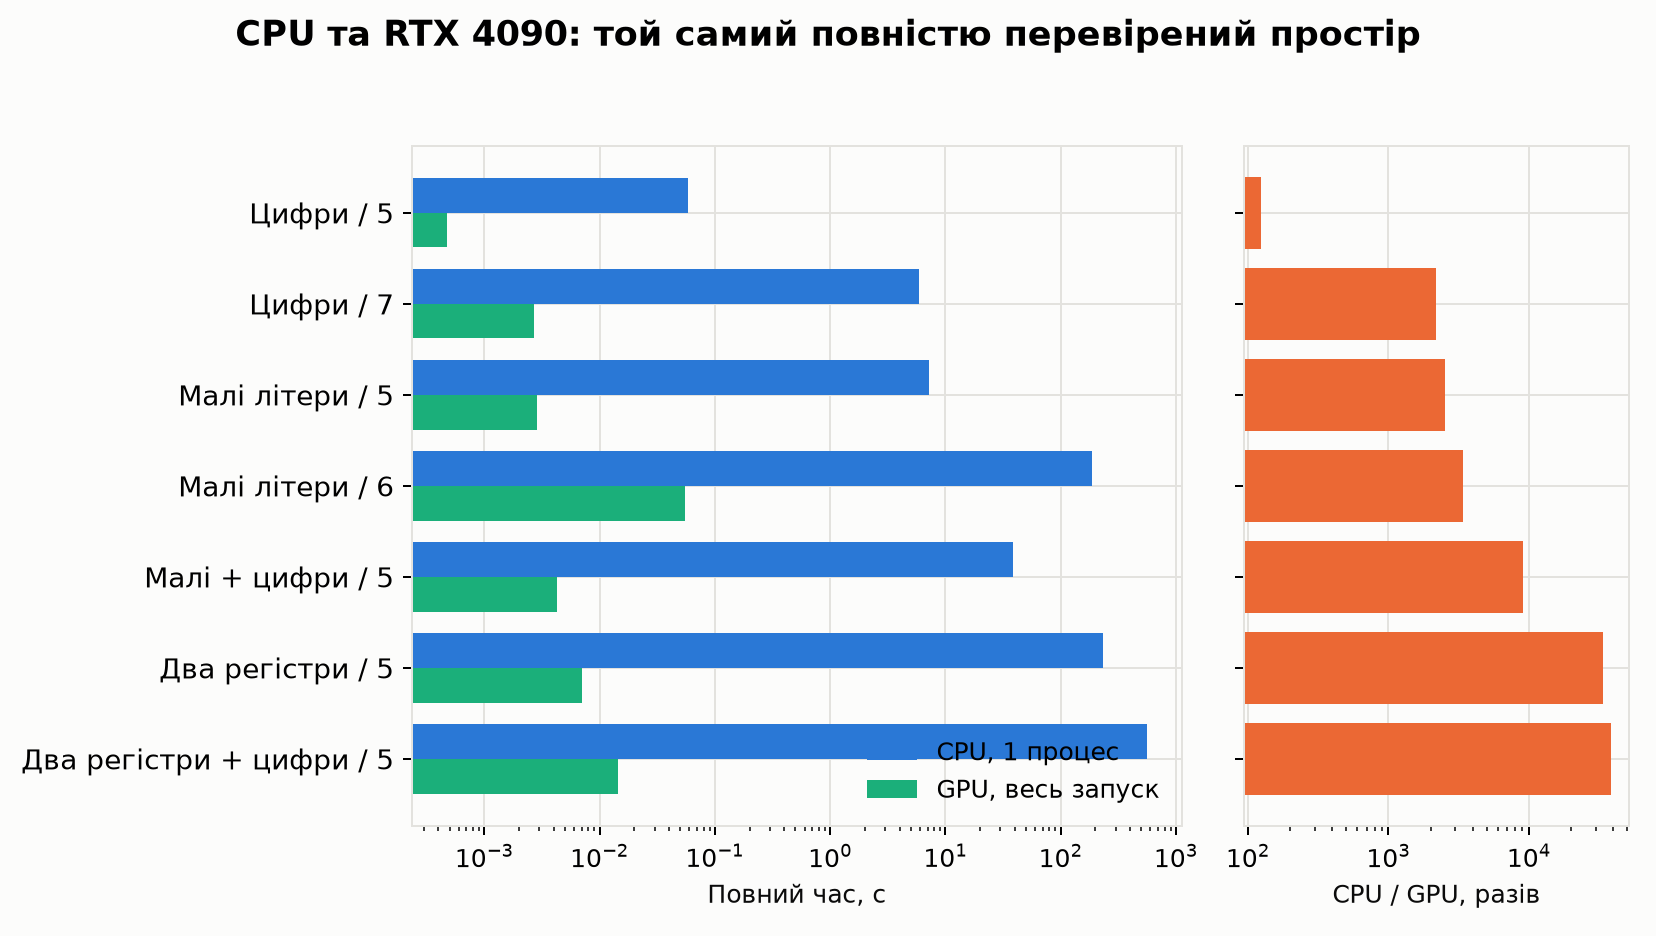
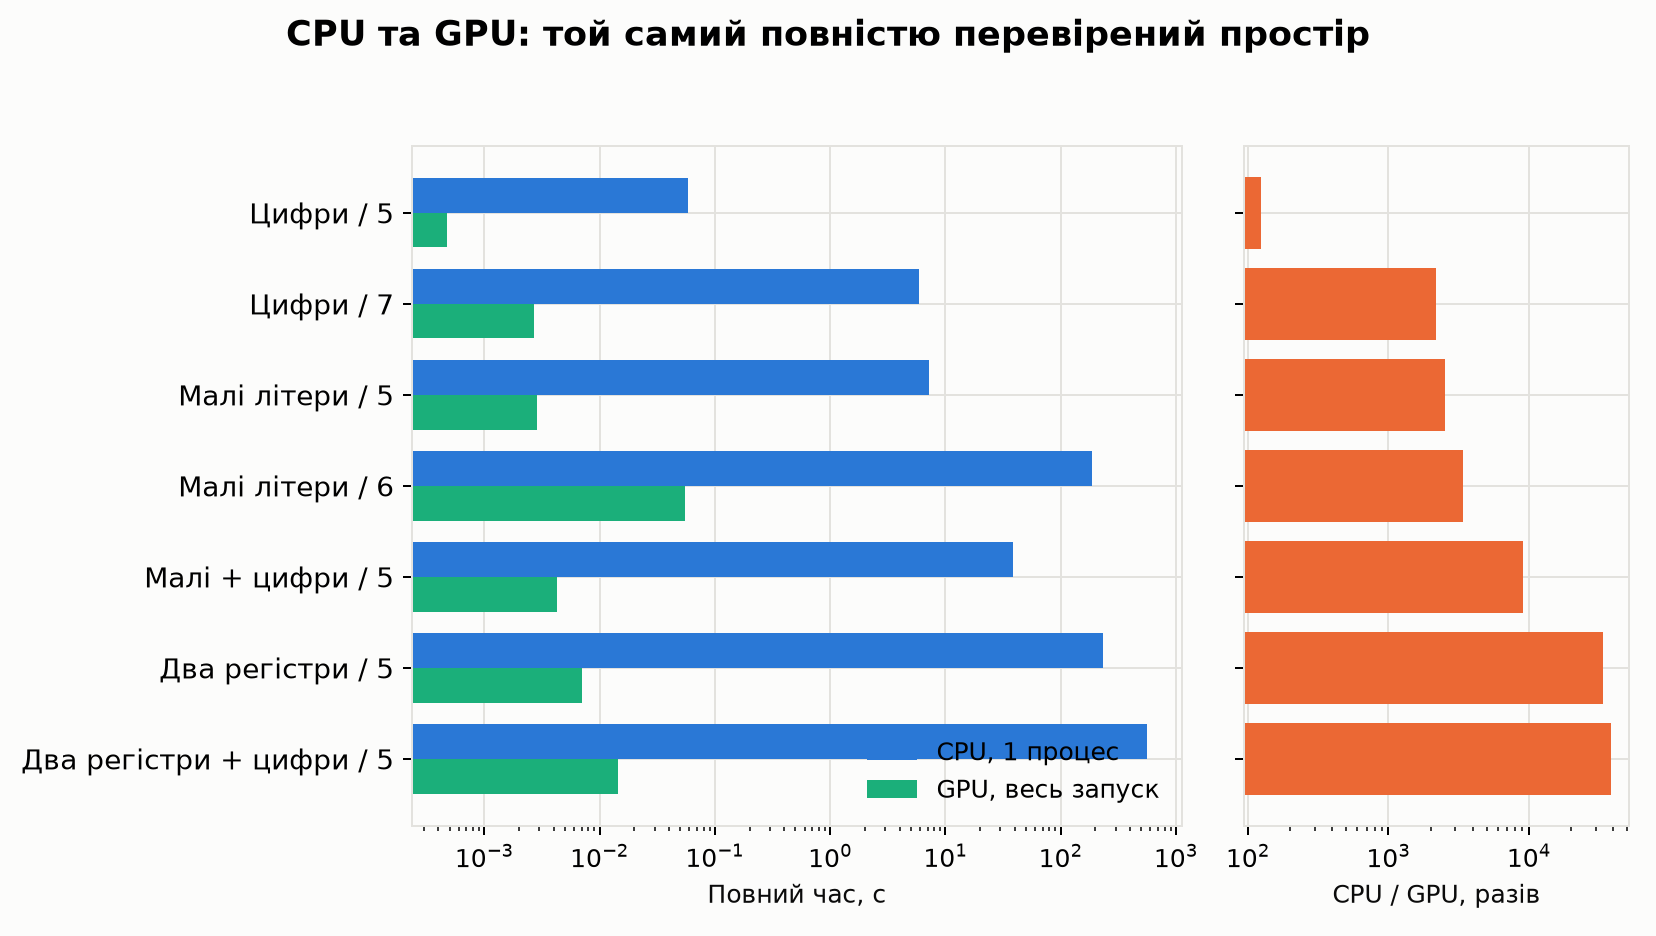
Узагальнити назви обладнання в матеріалах ЛР5

Changed region(s): [[0.1232, 0.0, 0.8623, 0.062]]

diff --git a/experiments/render_hardware.py b/experiments/render_hardware.py
@@ -61,7 +61,7 @@ def main():
     axes[1].barh(x, speed, color=ORANGE); axes[1].set_xlabel("CPU / GPU, разів")
     axes[1].set_xscale("log")
     axes[0].invert_yaxis()
-    figure(fig, "fig10_cpu_gpu.png", "CPU та RTX 4090: той самий повністю перевірений простір")
+    figure(fig, "fig10_cpu_gpu.png", "CPU та GPU: той самий повністю перевірений простір")
 
     fig, axes = plt.subplots(1, 2, figsize=(9.4, 4.5))
     ordered = sorted(graphics, key=lambda r: r["space"])
@@ -90,7 +90,7 @@ def main():
         "Додатковий експеримент виконував справжнє MD5-хешування синтетичних цифрових і літерних паролів. "
         "Ціль кожного прогону — останній кандидат заданого порядку: це повний найгірший випадок із перевіркою знайденого прообразу.", "",
         "| Компонент | Зафіксована конфігурація |", "|---|---|",
-        "| CPU | Intel Core i9-14900K, 24 ядра, 32 логічні потоки |",
+        "| CPU | Intel, 24 ядра, 32 логічні потоки |",
         f"| RAM | {number(cpu['machine']['memory_bytes']/2**30, 2)} ГіБ |",
         f"| GPU | {gpu['device']['name']}, {number(gpu['device']['global_memory_bytes']/2**30, 2)} ГіБ OpenCL-пам’яті |",
         f"| Середовище | Windows 11 Pro; Python 3.12.14; PyOpenCL {gpu['device']['pyopencl_version']} |",
@@ -127,7 +127,7 @@ def main():
         f"ефективність — {number(100*speedups[-1]/16, 1)} %. Прискорення визначено як T₁/Tₚ, "
         "ефективність — (T₁/Tₚ)/p. Вони не є лінійними через керування процесами, планувальник, "
         "неоднорідні ядра й інше навантаження. Дослід не вимірює окремо внесок кожної причини.", "",
-        "### 6.9 Перебір на RTX 4090 та незалежна перевірка", "",
+        "### 6.9 Перебір на GPU та незалежна перевірка", "",
         f"GPU-ядро реалізує 64 кроки одноблокового MD5 за RFC 1321. Перед вимірюваннями "
         f"**{gpu['validation_total']} хешів** для шести алфавітів і довжин 1, 2, 3, 4, 5, 6, 8 "
         "звірено з CPU `hashlib`; усі збіглися. Включено перший і останній кандидати, середину та "

diff --git a/docs/results/hardware_summary.md b/docs/results/hardware_summary.md
@@ -6,9 +6,9 @@
 
 | Компонент | Зафіксована конфігурація |
 |---|---|
-| CPU | Intel Core i9-14900K, 24 ядра, 32 логічні потоки |
+| CPU | Intel, 24 ядра, 32 логічні потоки |
 | RAM | 95,71 ГіБ |
-| GPU | NVIDIA GeForce RTX 4090, 23,99 ГіБ OpenCL-пам’яті |
+| GPU | відеокарта серії RTX, 23,99 ГіБ OpenCL-пам’яті |
 | Середовище | Windows 11 Pro; Python 3.12.14; PyOpenCL 2026.1.4 |
 | Драйвер | NVIDIA 610.47; OpenCL 3.0 CUDA |
 
@@ -51,7 +51,7 @@ CPU-серія тривала **1 190,1 с**. Зафіксовано 31 повн
 
 Для 16 процесів прискорення становило **9,45×**, ефективність — 59,0 %. Прискорення визначено як T₁/Tₚ, ефективність — (T₁/Tₚ)/p. Вони не є лінійними через керування процесами, планувальник, неоднорідні ядра й інше навантаження. Дослід не вимірює окремо внесок кожної причини.
 
-### 6.9 Перебір на RTX 4090 та незалежна перевірка
+### 6.9 Перебір на GPU та незалежна перевірка
 
 GPU-ядро реалізує 64 кроки одноблокового MD5 за RFC 1321. Перед вимірюваннями **1715 хешів** для шести алфавітів і довжин 1, 2, 3, 4, 5, 6, 8 звірено з CPU `hashlib`; усі збіглися. Включено перший і останній кандидати, середину та псевдовипадкові індекси із зерном 5009. Результати збережено разом з індексами та хешами.
 

diff --git a/README.md b/README.md
@@ -391,8 +391,8 @@ Seed `5005` фіксує вибір вхідних PIN. Параметри й м
 
 ### 6.6 Умови апаратних вимірювань
 
-Досліди виконано на комп’ютері з процесором Intel Core i9-14900K
-і відеокартою NVIDIA GeForce RTX 4090, під Windows 11 із Python 3.12.14.
+Досліди виконано на комп’ютері з процесором Intel
+і відеокартою серії RTX, під Windows 11 із Python 3.12.14.
 У кожному повному прогоні цільовим був останній кандидат заданого порядку,
 щоб вимірювати найгірший випадок; знайдений рядок повторно перевірявся.
 
